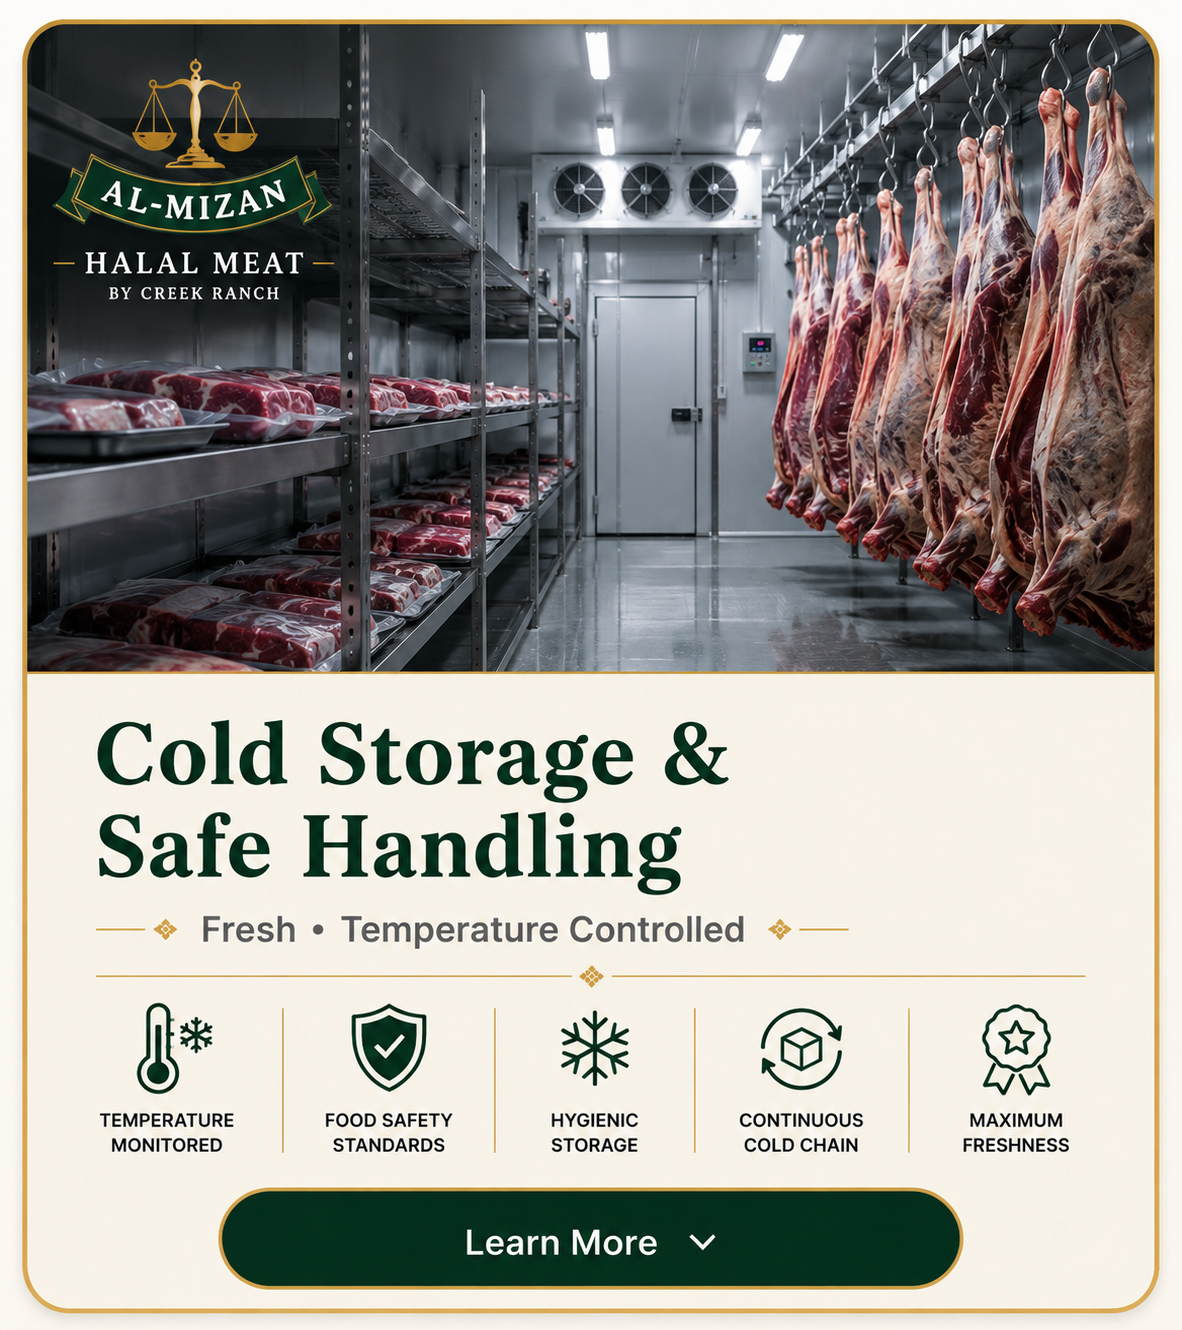
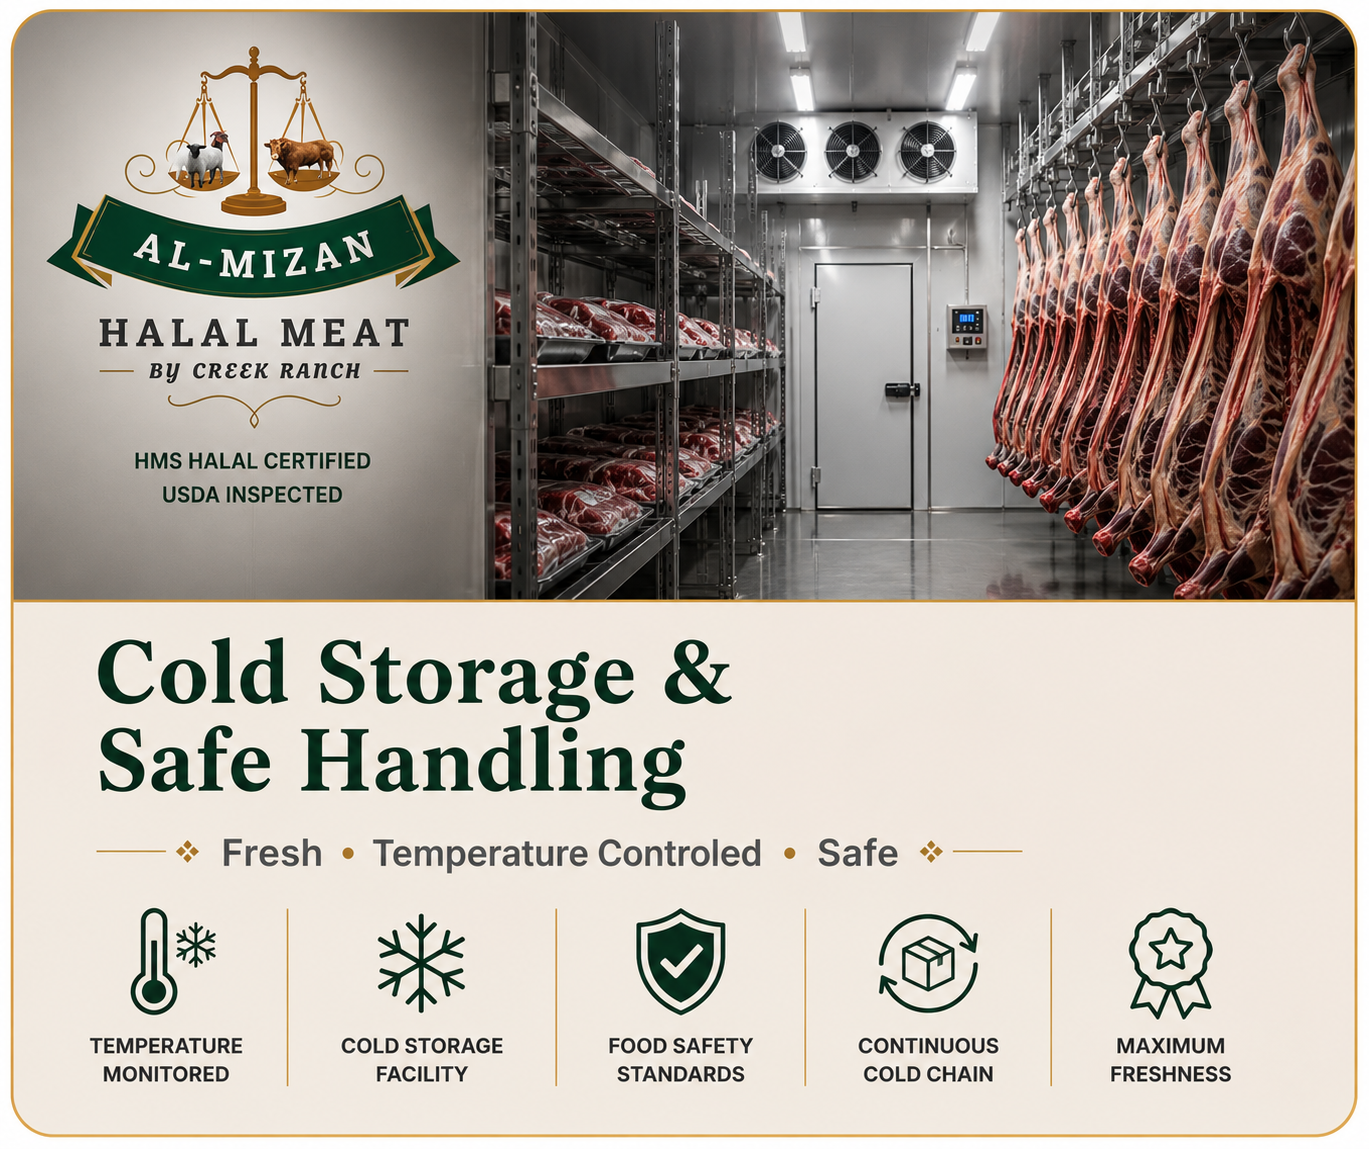
new update

diff --git a/frontend/src/components/TrustCard.js b/frontend/src/components/TrustCard.js
@@ -11,51 +11,43 @@ transition: all .35s ease;
 
 .trust-card:hover {
 transform: translateY(-7px);
-box-shadow: 0 22px 50px rgba(0,0,0,.24) !important;
+box-shadow: 0 22px 50px rgba(0,0,0,.25) !important;
 }
 
-.trust-card img {
-transition: transform .45s ease;
-}
-
-.trust-card:hover img {
-transform: scale(1.035);
-}
-
-.trust-view-btn {
+.trust-btn {
 transition: all .3s ease;
 }
 
-.trust-view-btn:hover {
+.trust-btn:hover {
 transform: scale(1.04);
-box-shadow: 0 10px 24px rgba(0,0,0,.22);
+box-shadow: 0 10px 24px rgba(0,0,0,.25);
 }
 
 @media (max-width: 768px) {
-.trust-info {
-padding: 18px 16px 20px !important;
+.trust-card {
+min-height: 430px !important;
 }
 
 .trust-title {
-font-size: 22px !important;
+font-size: 25px !important;
 }
 
 .trust-subtitle {
-font-size: 15px !important;
+font-size: 16px !important;
 }
 }
 `}</style>
 
-<article className="trust-card" style={styles.card}>
-<div style={styles.imageWrap} onClick={() => onOpen(certificate)}>
-<img
-src={certificate.background}
-alt={certificate.title}
-style={styles.image}
-/>
-</div>
+<article
+className="trust-card"
+style={{
+...styles.card,
+backgroundImage: `url("${certificate.background}")`,
+}}
+>
+<div style={styles.overlay}></div>
 
-<div className="trust-info" style={styles.info}>
+<div style={styles.content}>
 <h3 className="trust-title" style={styles.title}>
 {certificate.title}
 </h3>
@@ -64,8 +56,12 @@ style={styles.image}
 {certificate.subtitle}
 </p>
 
+<p style={styles.description}>
+{certificate.description}
+</p>
+
 <button
-className="trust-view-btn"
+className="trust-btn"
 style={styles.button}
 onClick={() => onOpen(certificate)}
 >
@@ -79,52 +75,65 @@ View Certificate →
 
 const styles = {
 card: {
-width: "100%",
-background: "#fff6dc",
+position: "relative",
+minHeight: 500,
+backgroundSize: "cover",
+backgroundPosition: "center",
 border: `3px solid ${gold}`,
 borderRadius: 24,
 overflow: "hidden",
-boxShadow: "0 12px 30px rgba(0,0,0,.15)",
+boxShadow: "0 12px 32px rgba(0,0,0,.16)",
+display: "flex",
+alignItems: "flex-end",
 },
 
-imageWrap: {
-overflow: "hidden",
-cursor: "pointer",
+overlay: {
+position: "absolute",
+inset: 0,
+background:
+"linear-gradient(to bottom, rgba(255,246,220,.08), rgba(255,246,220,.58), rgba(255,246,220,.94))",
+zIndex: 1,
 },
 
-image: {
+content: {
+position: "relative",
+zIndex: 2,
 width: "100%",
-height: 230,
-objectFit: "cover",
-display: "block",
-},
-
-info: {
-padding: "20px 18px 22px",
+padding: "26px 22px 28px",
 textAlign: "center",
 },
 
 title: {
 color: green,
-fontSize: 24,
-margin: "0 0 8px",
+fontSize: 30,
+margin: "0 0 10px",
 fontWeight: "900",
+lineHeight: 1.15,
 },
 
 subtitle: {
 color: "#7c1d1d",
-fontSize: 16,
-fontWeight: "800",
-margin: "0 0 18px",
+fontSize: 18,
+fontWeight: "900",
+margin: "0 0 12px",
+},
+
+description: {
+color: "#222",
+fontSize: 15,
+lineHeight: 1.55,
+margin: "0 0 20px",
+fontWeight: "600",
 },
 
 button: {
 background: green,
 color: "white",
-border: "none",
+border: `2px solid ${gold}`,
 borderRadius: 14,
-padding: "12px 22px",
+padding: "13px 26px",
 fontWeight: "900",
+fontSize: 15,
 cursor: "pointer",
 },
 };

diff --git a/frontend/src/components/Story.js b/frontend/src/components/Story.js
@@ -4,7 +4,6 @@ const steps = [
 {
 image: "/images/journey-1.png",
 title: "Professional Halal Processing",
-subtitle: "USDA & HMS Certified",
 text: "Every order starts with clean, respectful, USDA-inspected and HMS halal-certified processing.",
 details: [
 "USDA inspected facility",
@@ -17,7 +16,6 @@ details: [
 {
 image: "/images/journey-2.png",
 title: "Fresh Cutting & Packing",
-subtitle: "Fresh • Vacuum Sealed",
 text: "Every order is carefully cut, packed, and prepared to preserve freshness and quality.",
 details: [
 "Custom cuts available",
@@ -30,7 +28,6 @@ details: [
 {
 image: "/images/journey-3.png",
 title: "Cold Storage & Safe Handling",
-subtitle: "Fresh • Temperature Controlled",
 text: "Products are stored under proper temperature control to maintain freshness and food safety.",
 details: [
 "Temperature monitored",
@@ -43,7 +40,6 @@ details: [
 {
 image: "/images/journey-4.png",
 title: "Fast Delivery & Customer Service",
-subtitle: "On Time • Reliable",
 text: "We deliver fresh halal products with professional service and reliable customer support.",
 details: [
 "Fast local delivery",
@@ -96,16 +92,12 @@ margin-top: 18px;
 font-size: 36px !important;
 }
 
-.journey-img {
-height: auto !important;
-}
-
 .journey-content {
-padding: 22px 20px 26px !important;
+padding: 16px !important;
 }
 
-.journey-card-title {
-font-size: 24px !important;
+.journey-learn-btn {
+width: 100% !important;
 }
 }
 `}</style>
@@ -137,13 +129,8 @@ style={styles.image}
 </div>
 
 <div className="journey-content" style={styles.content}>
-<h3 className="journey-card-title" style={styles.title}>
-{step.title}
-</h3>
-
-<p style={styles.subtitle}>{step.subtitle}</p>
-
 <button
+className="journey-learn-btn"
 style={styles.learnBtn}
 onClick={() => setOpenIndex(isOpen ? null : index)}
 >
@@ -151,6 +138,8 @@ onClick={() => setOpenIndex(isOpen ? null : index)}
 </button>
 
 <div className={`details-box ${isOpen ? "open" : ""}`}>
+<h3 style={styles.detailsTitle}>{step.title}</h3>
+
 <ul style={styles.list}>
 {step.details.map((item) => (
 <li key={item} style={styles.item}>
@@ -222,22 +211,8 @@ display: "block",
 },
 
 content: {
-padding: "26px 24px 30px",
+padding: "16px 18px 20px",
 textAlign: "center",
-},
-
-title: {
-color: "#062b18",
-fontSize: "28px",
-margin: "0 0 8px",
-lineHeight: 1.15,
-},
-
-subtitle: {
-color: "#666",
-fontSize: "16px",
-fontWeight: "800",
-marginBottom: "20px",
 },
 
 learnBtn: {
@@ -249,6 +224,14 @@ padding: "13px 26px",
 fontWeight: "900",
 fontSize: "16px",
 cursor: "pointer",
+width: "85%",
+},
+
+detailsTitle: {
+color: "#062b18",
+fontSize: "22px",
+margin: "0 0 16px",
+lineHeight: 1.2,
 },
 
 list: {
@@ -272,6 +255,7 @@ lineHeight: 1.65,
 margin: 0,
 },
 };
+
 
 
 
